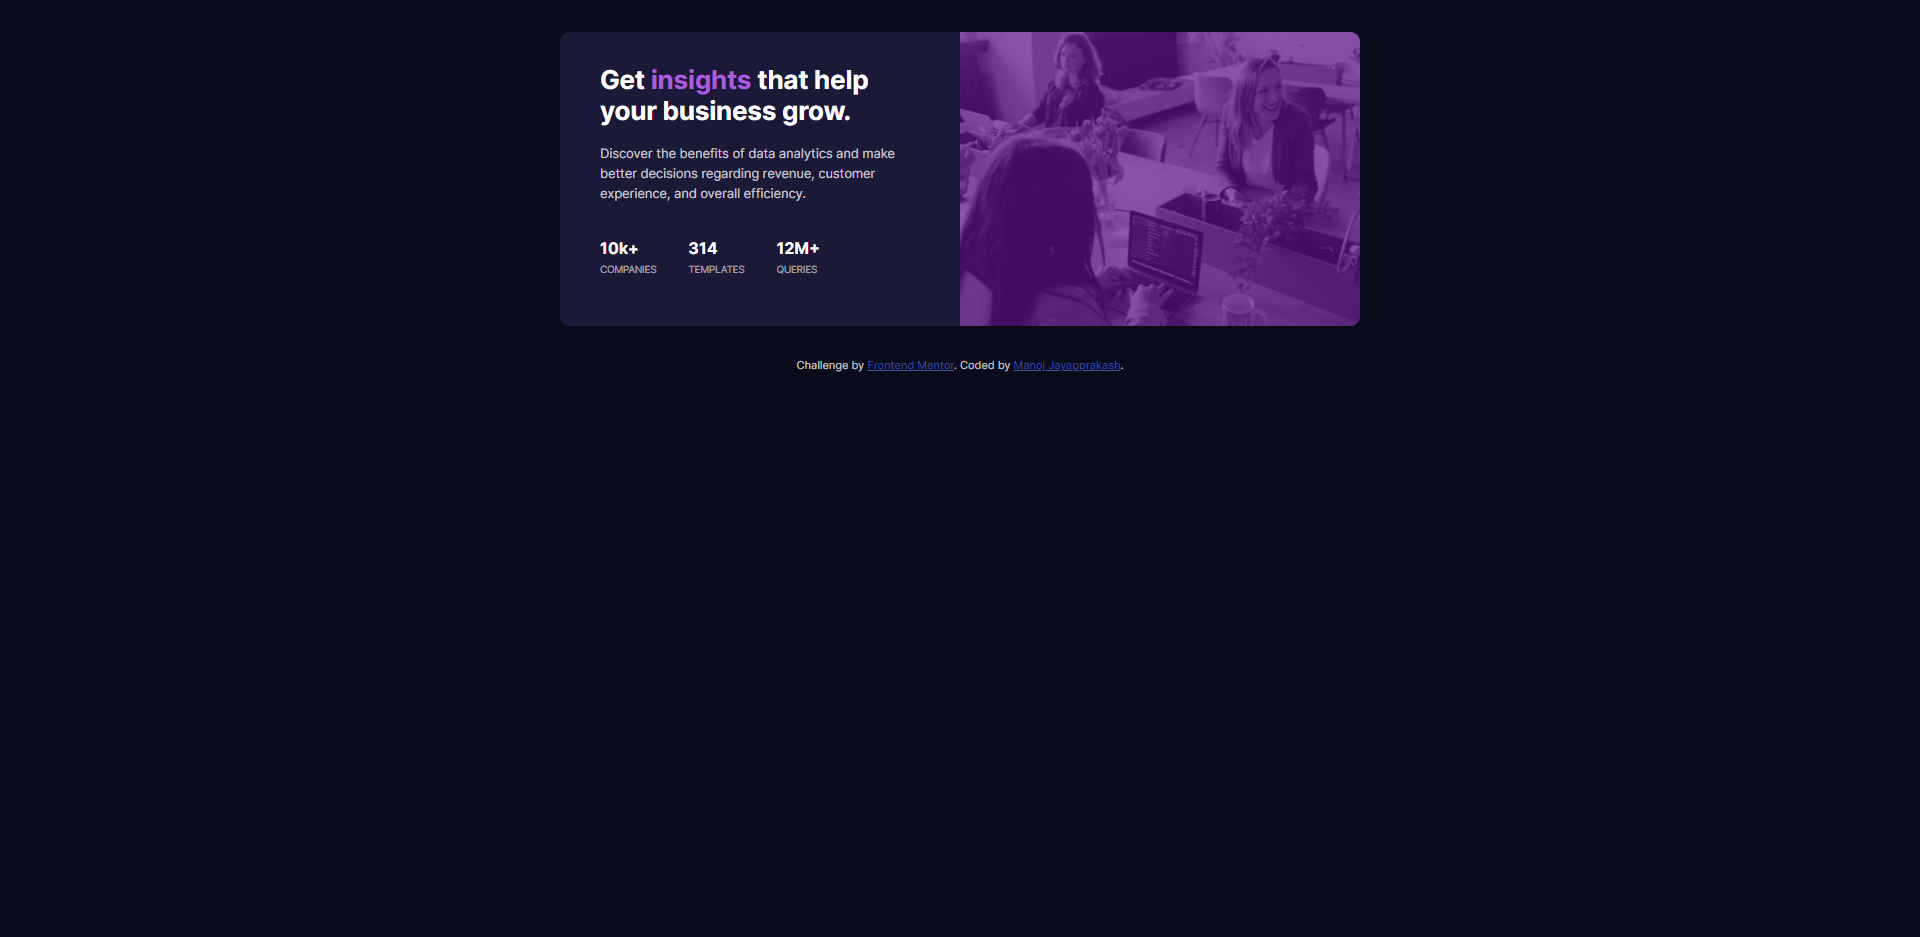
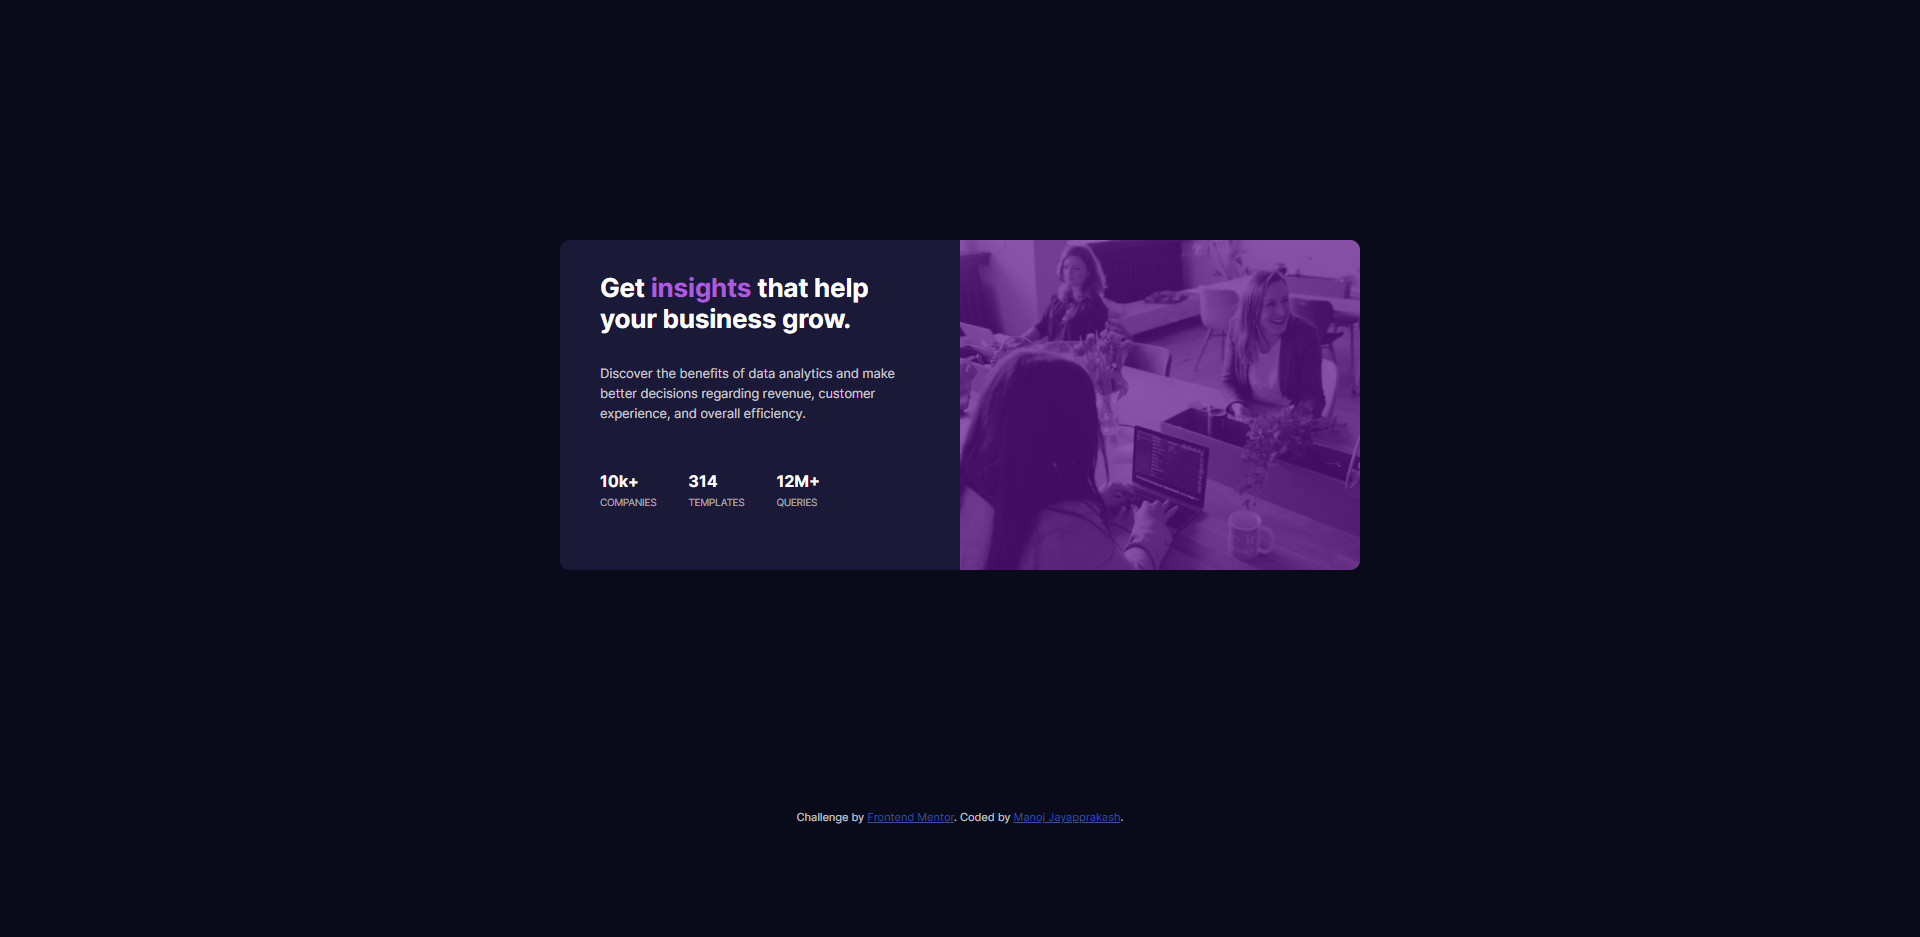
updated screenshot

Changed region(s): [[0.2812, 0.0309, 0.7188, 0.619], [0.4062, 0.8666, 0.5938, 0.8975]]

diff --git a/style.css b/style.css
@@ -78,7 +78,7 @@ body {
   .statistics {
     display: flex;
     flex-direction: row-reverse;
-    margin: 2rem auto;
+    margin: 15rem auto;
   }
 
   .image {
